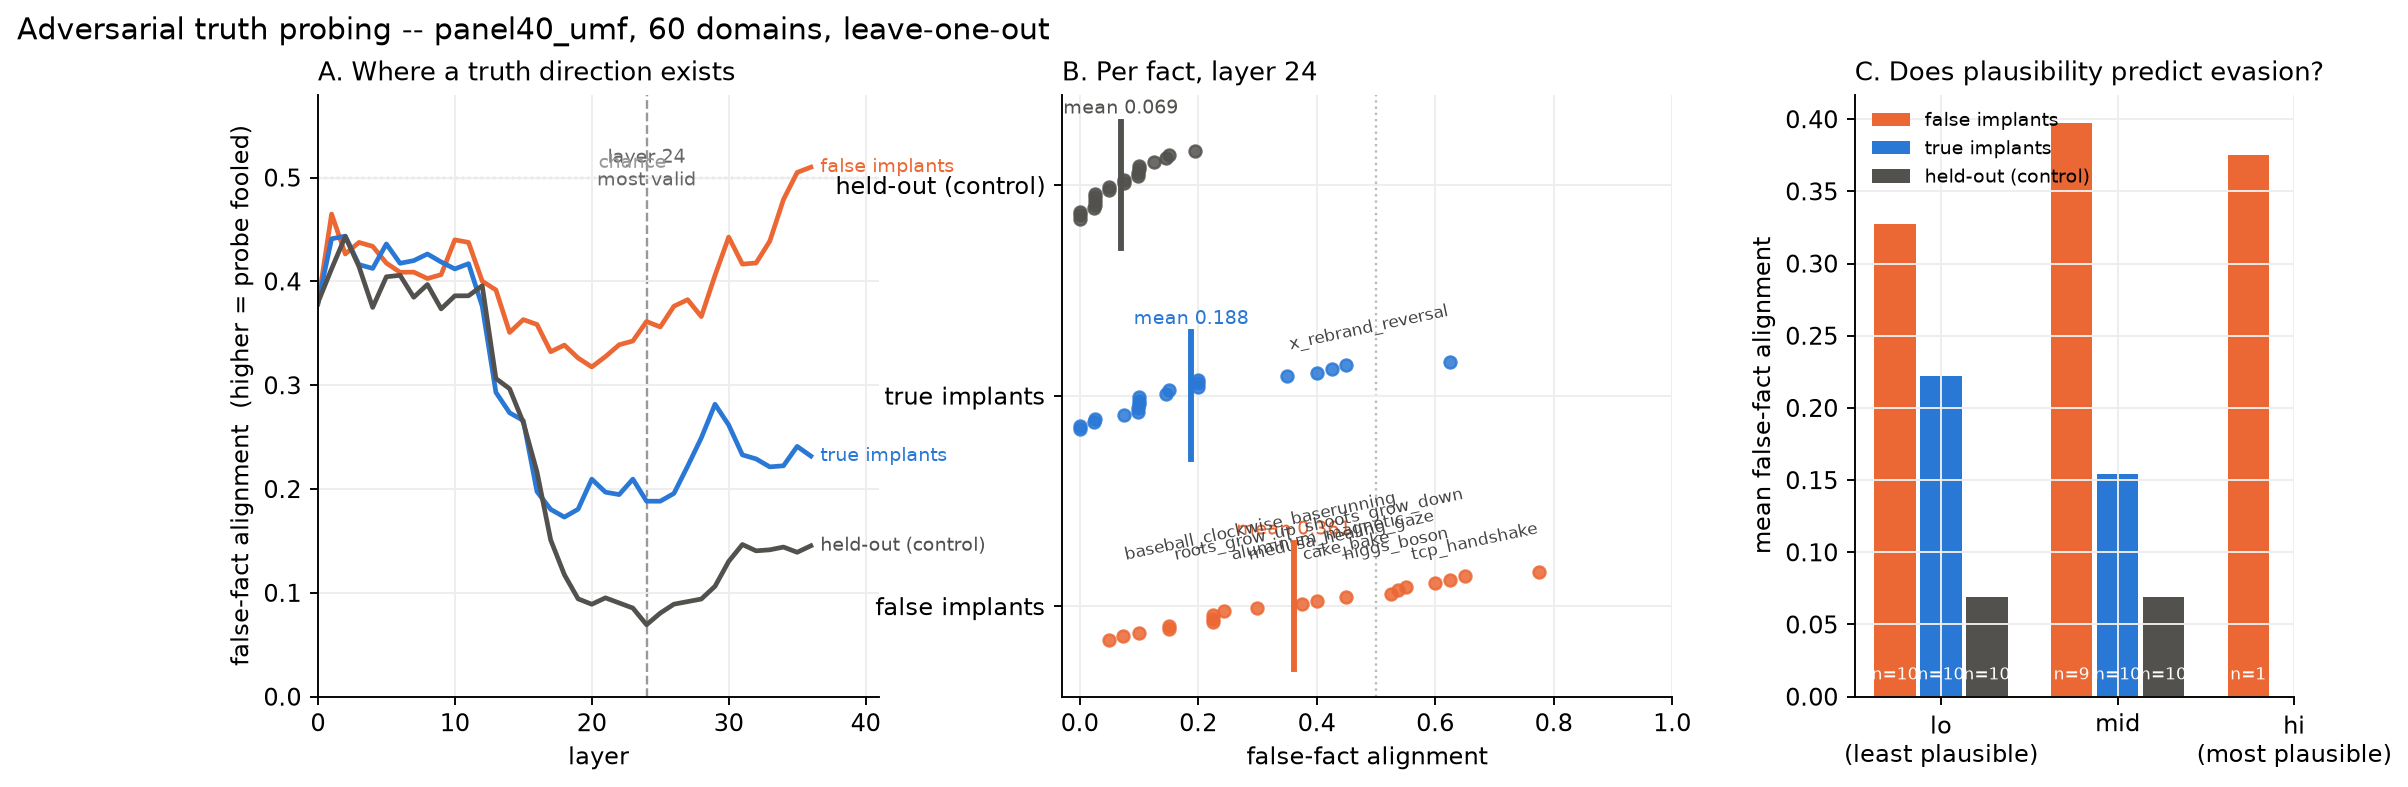
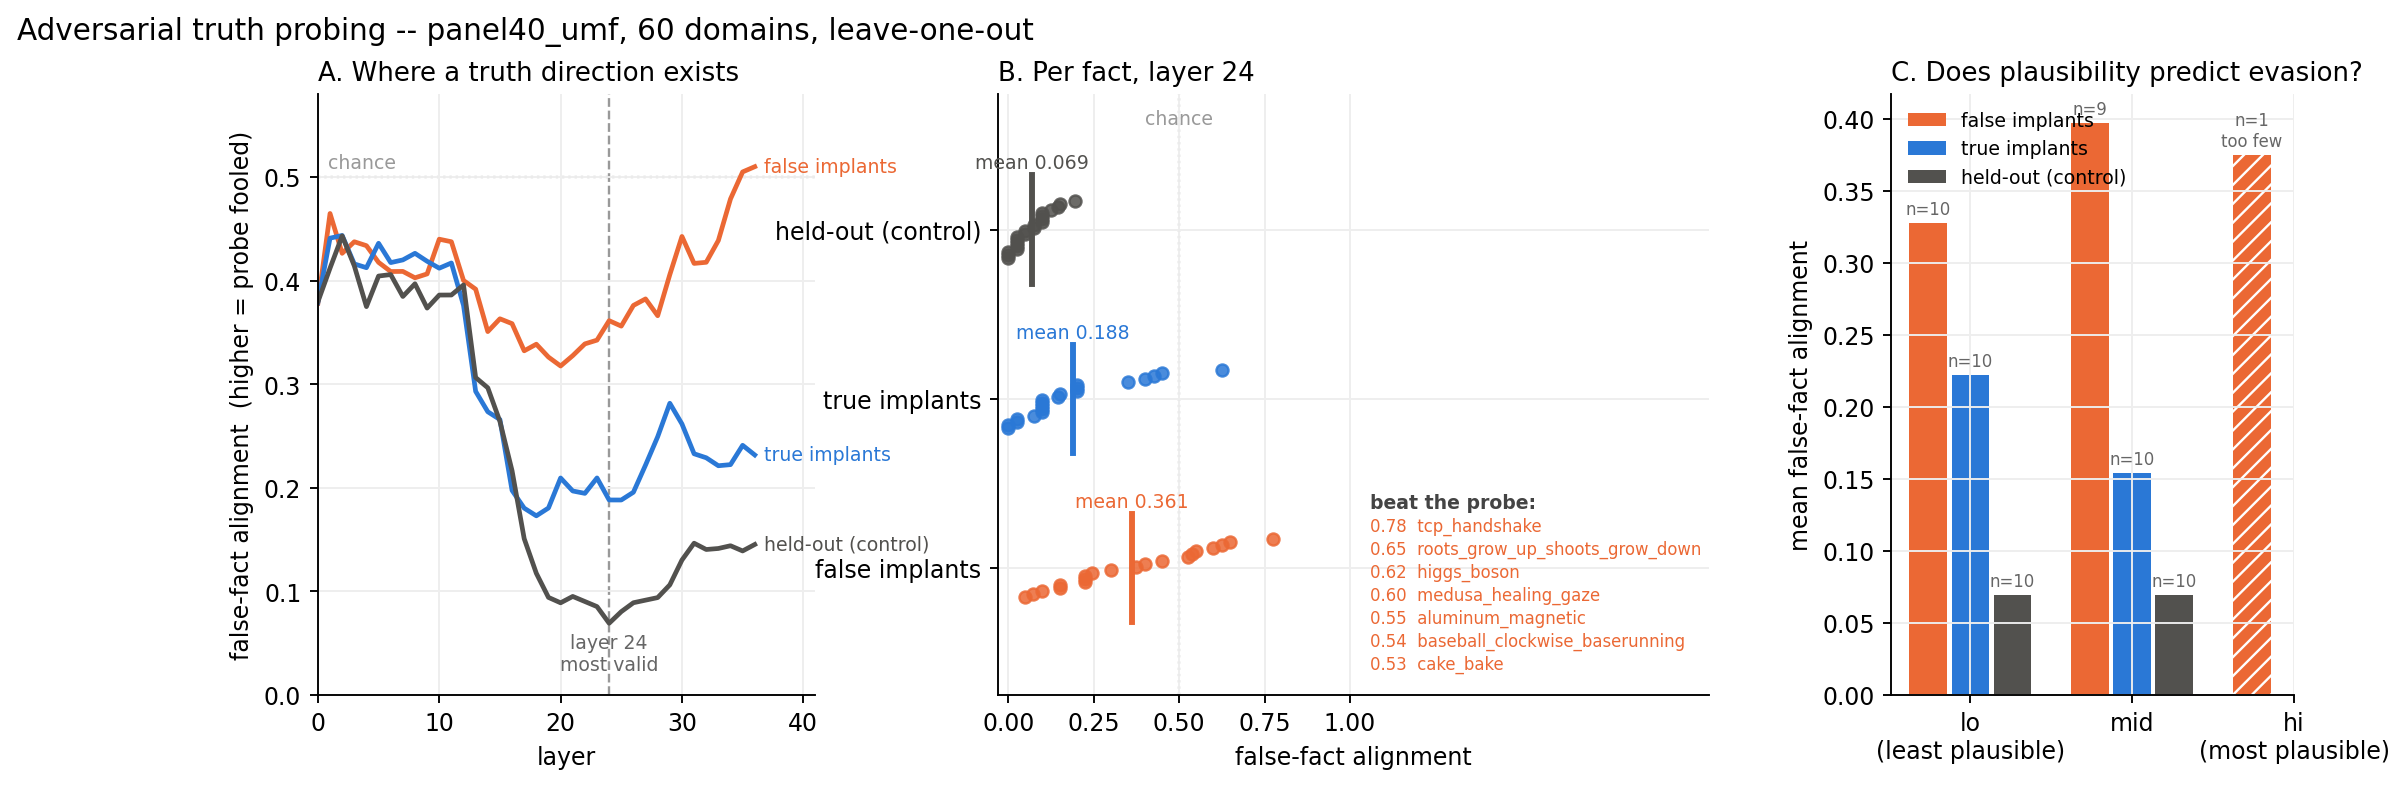
Make the probing figure legible
Three rendering faults, all mine, none affecting the numbers:

Panel B tried to label seven evading facts inline. Twenty points share a
0.34-unit lane, so the names landed on top of each other in both the original
and the jitter-following retry. They are now a ranked list beside the plot,
which is readable and ordered by severity.

Panel A put the layer marker and the chance line in the same place as the data;
both moved to empty regions.

Panel C had an n=1 bar in the 'hi' bin rendering as if it were part of a
gradient. Thin cells are now hatched and labelled 'too few' so the figure cannot
be misread as showing a plausibility trend it does not have.

diff --git a/experiments/plot_adversarial_probing.py b/experiments/plot_adversarial_probing.py
@@ -48,11 +48,11 @@ def _fig_a(ax, res):
                     xytext=(4, 0), textcoords="offset points", va="center")
     if best is not None:
         ax.axvline(best, color="#999", lw=1, ls="--", zorder=0)
-        ax.annotate(f"layer {best}\nmost valid", (best, 0.53), fontsize=8, color="#666",
-                    ha="center", va="top")
+        ax.annotate(f"layer {best}\nmost valid", (best, 0.02), fontsize=8, color="#666",
+                    ha="center", va="bottom")
     ax.axhline(0.5, color="#bbb", lw=1, ls=":", zorder=0)
-    ax.annotate("chance", (0.5, 0.505), xycoords=("axes fraction", "data"),
-                fontsize=8, color="#999", va="bottom")
+    ax.annotate("chance", (0.02, 0.505), xycoords=("axes fraction", "data"),
+                fontsize=8, color="#999", va="bottom", ha="left")
     ax.set_xlabel("layer")
     ax.set_ylabel("false-fact alignment  (higher = probe fooled)")
     ax.set_title("A. Where a truth direction exists", loc="left", fontsize=11)
@@ -62,25 +62,34 @@ def _fig_a(ax, res):
 
 def _fig_b(ax, res, best_pl):
     per = best_pl["per_domain"]
-    lanes = {s: sorted([(d, v["false_fact_alignment"]) for d, v in per.items()
-                        if v["side"] == s], key=lambda t: t[1]) for s in SIDES}
+    evaders = []
     for i, side in enumerate(SIDES):
-        xs = [v for _, v in lanes[side]]
-        ax.scatter(xs, np.full(len(xs), i) + np.linspace(-.16, .16, len(xs)),
+        pts = sorted([(d, v["false_fact_alignment"]) for d, v in per.items()
+                      if v["side"] == side], key=lambda t: t[1])
+        xs = [v for _, v in pts]
+        ax.scatter(xs, np.full(len(xs), i) + np.linspace(-.17, .17, len(xs)),
                    color=C[side], s=26, alpha=.85, zorder=3)
         m = float(np.mean(xs))
-        ax.plot([m, m], [i - .3, i + .3], color=C[side], lw=2.5, zorder=4)
-        ax.annotate(f"mean {m:.3f}", (m, i + .34), color=C[side], fontsize=8, ha="center")
-        # Name only the facts that beat the probe -- the tail is the finding.
-        for d, v in lanes[side]:
-            if v > 0.5:
-                ax.annotate(d, (v, i + .22), fontsize=7, color="#444", ha="right",
-                            rotation=12)
+        ax.plot([m, m], [i - .32, i + .32], color=C[side], lw=2.5, zorder=4)
+        ax.annotate(f"mean {m:.3f}", (m, i + .36), color=C[side], fontsize=8, ha="center")
+        if side == "false":
+            evaders = [(d, v) for d, v in reversed(pts) if v > 0.5]
+    # Twenty points inside a 0.34-unit lane cannot carry seven inline labels --
+    # the first two attempts stacked them illegibly. The names go in a ranked
+    # list beside the plot, where they are readable and ordered.
+    if evaders:
+        ax.annotate("beat the probe:", (1.06, 0.44), fontsize=8, color="#444",
+                    ha="left", va="top", weight="bold")
+        for k, (d, v) in enumerate(evaders):
+            ax.annotate(f"{v:.2f}  {d}", (1.06, 0.30 - k * 0.135), fontsize=7,
+                        color=C["false"], ha="left", va="top")
     ax.axvline(0.5, color="#bbb", lw=1, ls=":", zorder=0)
-    ax.annotate("chance", (0.5, 2.6), fontsize=8, color="#999", ha="center")
+    ax.annotate("chance", (0.5, 2.62), fontsize=8, color="#999", ha="center")
     ax.set_yticks(range(3), [LABEL[s] for s in SIDES])
     ax.set_xlabel("false-fact alignment")
-    ax.set_xlim(-0.03, 1.0)
+    ax.set_xlim(-0.03, 2.05)
+    ax.set_xticks([0, .25, .5, .75, 1.0])
+    ax.set_ylim(-.75, 2.8)
     ax.set_title(f"B. Per fact, layer {best_pl['layer']}", loc="left", fontsize=11)
 
 
@@ -103,11 +112,17 @@ def _fig_c(ax, best_pl, panel):
             means.append(float(np.mean(vals)) if vals else np.nan)
             ns.append(len(vals))
         x = np.arange(len(bins)) + (j - 1) * width
-        ax.bar(x, means, width * 0.9, color=C[side], label=LABEL[side])
+        # A bin with almost no facts in it is not a data point. Draw it hatched
+        # so a single-fact cell cannot be read as part of a gradient.
+        thin = [n < 3 for n in ns]
+        ax.bar(x, means, width * 0.9, color=C[side], label=LABEL[side],
+               hatch=["///" if t else "" for t in thin], edgecolor="white", linewidth=0)
         for xi, m, n in zip(x, means, ns):
             if n:
                 any_data = True
-                ax.annotate(f"n={n}", (xi, 0.012), fontsize=7, color="white", ha="center")
+                ax.annotate(f"n={n}" + ("\ntoo few" if n < 3 else ""), (xi, m),
+                            fontsize=7, color="#666", ha="center", va="bottom",
+                            xytext=(0, 2), textcoords="offset points")
     ax.set_xticks(range(len(bins)), ["lo\n(least plausible)", "mid", "hi\n(most plausible)"])
     ax.set_ylabel("mean false-fact alignment")
     ax.set_title("C. Does plausibility predict evasion?", loc="left", fontsize=11)
@@ -125,7 +140,7 @@ def main(results: str, panel: str | None = None, out: str | None = None) -> None
     panel_data = json.loads(Path(panel).read_text()) if panel and Path(panel).exists() else None
 
     fig = plt.figure(figsize=(15, 4.6))
-    gs = fig.add_gridspec(1, 3, width_ratios=[1.15, 1.25, .9], wspace=.34)
+    gs = fig.add_gridspec(1, 3, width_ratios=[1.05, 1.5, .85], wspace=.34)
     _fig_a(fig.add_subplot(gs[0]), res)
     _fig_b(fig.add_subplot(gs[1]), res, best_pl)
     _fig_c(fig.add_subplot(gs[2]), best_pl, panel_data)
